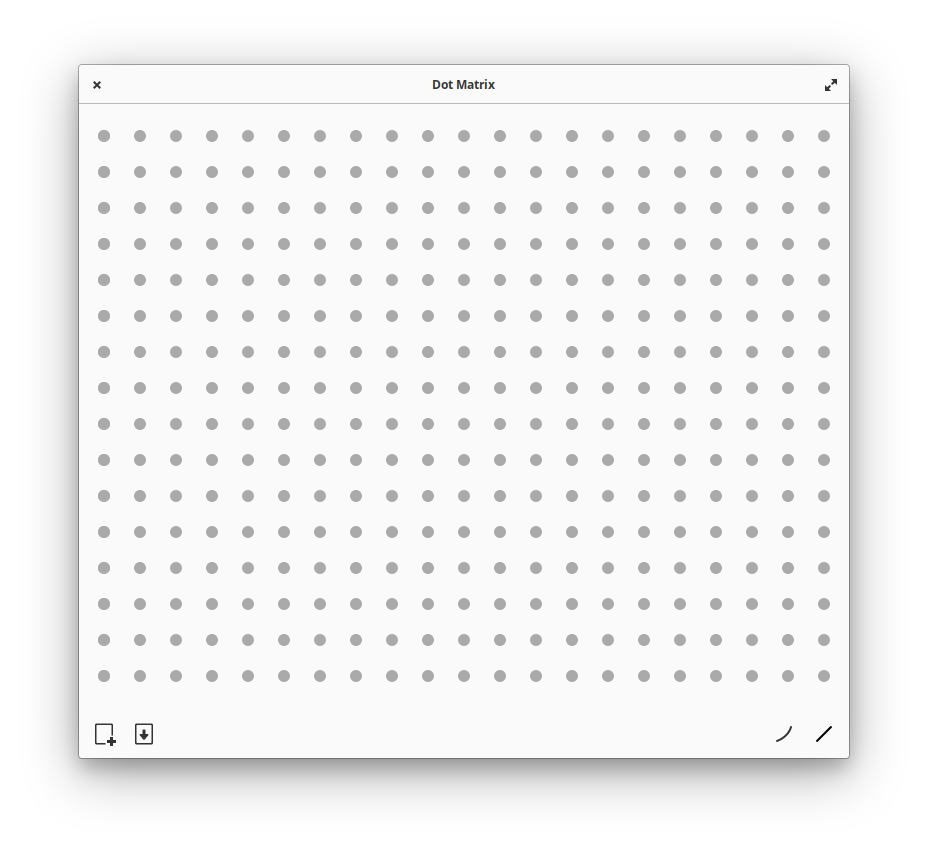
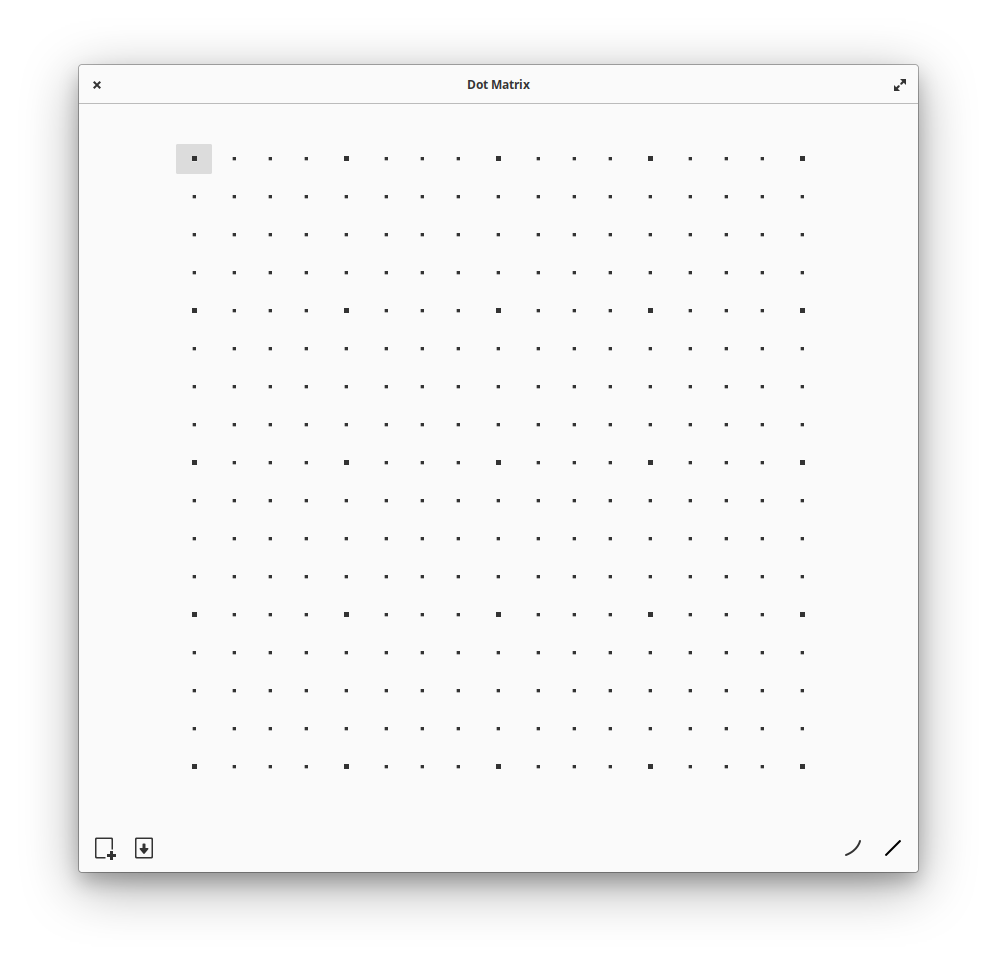
* - last commit before adventures in Cairo

diff --git a/data/stylesheet.css b/data/stylesheet.css
@@ -34,21 +34,3 @@
 .dm-grid {
     background: @colorPrimary;
 }
-
-.dm-grid button {
-    background: transparent;
-    color: @dotColorPrimary;
-    padding: 2px;
-    margin: 7px;
-}
-
-.dm-grid button:prelight.toggle {
-    background: shade (@colorPrimary, 0.88);
-    border-radius: 50%;
-}
-
-.dm-grid button:checked.toggle {
-    background: mix (#FFF, @colorPrimary, 0.5);
-    border-radius: 50%;
-    -gtk-icon-shadow: none;
-}
